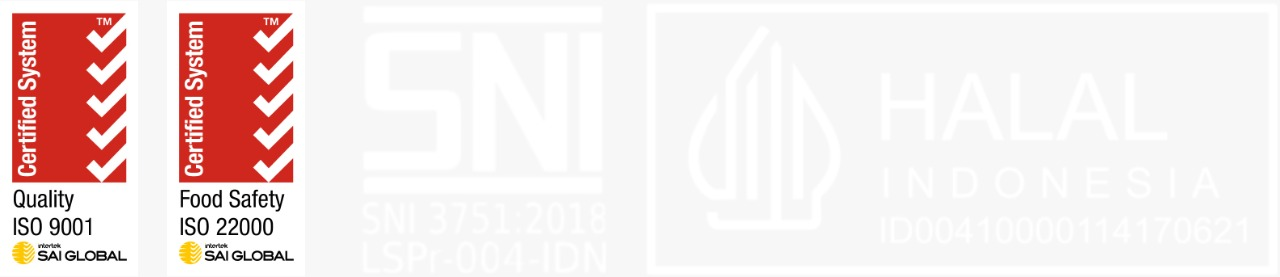
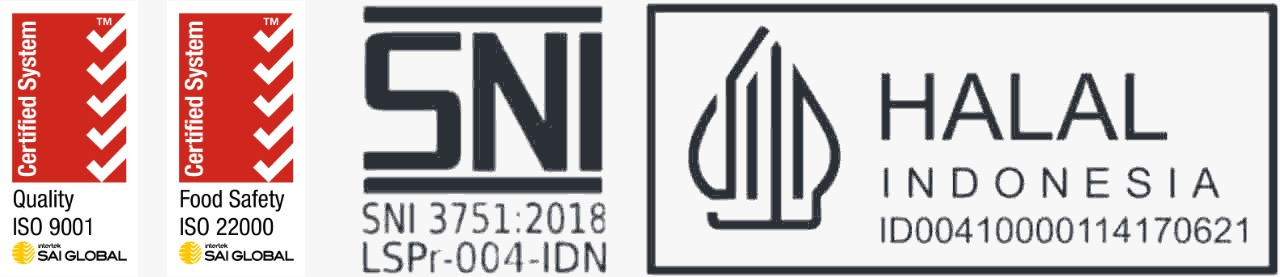
Update gambar

Changed region(s): [[0.2812, 0.0, 1.0, 1.0], [0.6875, 0.2599, 0.9375, 0.5199]]

diff --git a/assets/css/main.css b/assets/css/main.css
@@ -3283,14 +3283,18 @@ section,
 
 .contact .contact-wrapper {
   display: grid;
-  grid-template-columns: 1fr;
+  grid-template-columns: minmax(0, 1fr);
+  width: 100%;
+  min-width: 0;
   gap: 28px;
   align-items: start;
 }
 
 @media (min-width: 992px) {
   .contact .contact-wrapper {
-    grid-template-columns: 0.92fr 1.08fr;
+    grid-template-columns:
+      minmax(0, 0.92fr)
+      minmax(0, 1.08fr);
     gap: 24px;
   }
 }
@@ -4773,11 +4777,10 @@ section,
   max-width: 220px;
   height: auto;
   object-fit: contain;
-  padding: 12px 14px;
-  box-sizing: border-box;
-  background-color: #000000;
-  border-radius: 10px;
-  box-shadow: 0 6px 16px rgba(0, 0, 0, 0.12);
+  padding: 0;
+  background-color: transparent;
+  border-radius: 0;
+  box-shadow: none;
 }
 
 /* Tampilan HP */
@@ -4786,6 +4789,114 @@ section,
     width: 50%;
     max-width: 180px;
   }
+  
+/* =========================================
+   PERBAIKAN CONTACT RESPONSIVE
+   ========================================= */
+
+/* Mencegah box melebar keluar layar */
+.contact .contact-wrapper > *,
+.contact .contact-info-panel,
+.contact .contact-form-panel,
+.contact .contact-info-cards,
+.contact .info-card,
+.contact .map-container,
+.contact .form-container {
+  min-width: 0;
+  max-width: 100%;
+  box-sizing: border-box;
+}
+
+/* Memastikan semua panel mengikuti lebar kolom */
+.contact .contact-info-panel,
+.contact .contact-form-panel {
+  width: 100%;
+}
+
+/* Membuat teks panjang tidak mendorong box */
+.contact .info-card .card-content {
+  min-width: 0;
+  flex: 1;
+  overflow-wrap: anywhere;
+}
+
+.contact .info-card .card-content p {
+  overflow-wrap: anywhere;
+  word-break: normal;
+}
+
+/* Maps dan formulir mengikuti lebar panel */
+.contact .map-container,
+.contact .form-container {
+  width: 100%;
+}
+
+.contact .map-container iframe {
+  display: block;
+  width: 100%;
+  max-width: 100%;
+}
+
+.contact .form-container .form-control {
+  max-width: 100%;
+  min-width: 0;
+}
+
+/* Tampilan tablet dan split screen */
+@media (max-width: 991px) {
+  .contact .contact-info-cards {
+    grid-template-columns: minmax(0, 1fr);
+  }
+}
+
+/* Tampilan HP */
+@media (max-width: 767px) {
+  .contact .container {
+    width: 100%;
+    padding-left: 16px;
+    padding-right: 16px;
+  }
+
+  .contact .contact-wrapper {
+    grid-template-columns: minmax(0, 1fr);
+    gap: 20px;
+  }
+
+  /* Box kuning informasi kontak */
+  .contact .contact-info-panel {
+    padding: 24px 16px;
+    border-radius: 16px;
+  }
+
+  .contact .contact-info-cards {
+    grid-template-columns: minmax(0, 1fr);
+    gap: 12px;
+  }
+
+  .contact .info-card {
+    padding: 14px 12px;
+    gap: 12px;
+    align-items: flex-start;
+  }
+
+  .contact .info-card .icon-container {
+    width: 38px;
+    height: 38px;
+  }
+
+  /* Maps */
+  .contact .map-container {
+    height: 250px;
+    min-height: 250px;
+    border-radius: 12px;
+  }
+
+  /* Hubungi Kami */
+  .contact .form-container {
+    padding: 22px 16px;
+    border-radius: 16px;
+  }
+}
 }
 
 

diff --git a/index.html b/index.html
@@ -613,7 +613,7 @@ strategi pemasaran perusahaan.</p>
                   <p>Kantor Pusat</p>
                   <p>Jl. Urip Sumoharjo No.203 RT.02 RW.05
 Kel. Gumilir, Cilacap – Central Java</p>
-                  <p>... </p>  
+                  <p>---</p>  
                   <p>Pabrik</p>
                   <p>Jl. Laut Jawa, Pelabuhan Tanjung Intan
 Cilacap, Jawa Tengah, Indonesia</p>
@@ -835,7 +835,7 @@ Cilacap, Jawa Tengah, Indonesia</p>
           <p>Kantor Pusat</p>
                   <p>Jl. Urip Sumoharjo No.203 RT.02 RW.05
 Kel. Gumilir, Cilacap – Central Java</p>
-                  <p>... </p>  
+                  <p>---</p>  
                   <p>Pabrik</p>
                   <p>Jl. Laut Jawa, Pelabuhan Tanjung Intan
 Cilacap, Jawa Tengah, Indonesia</p>
